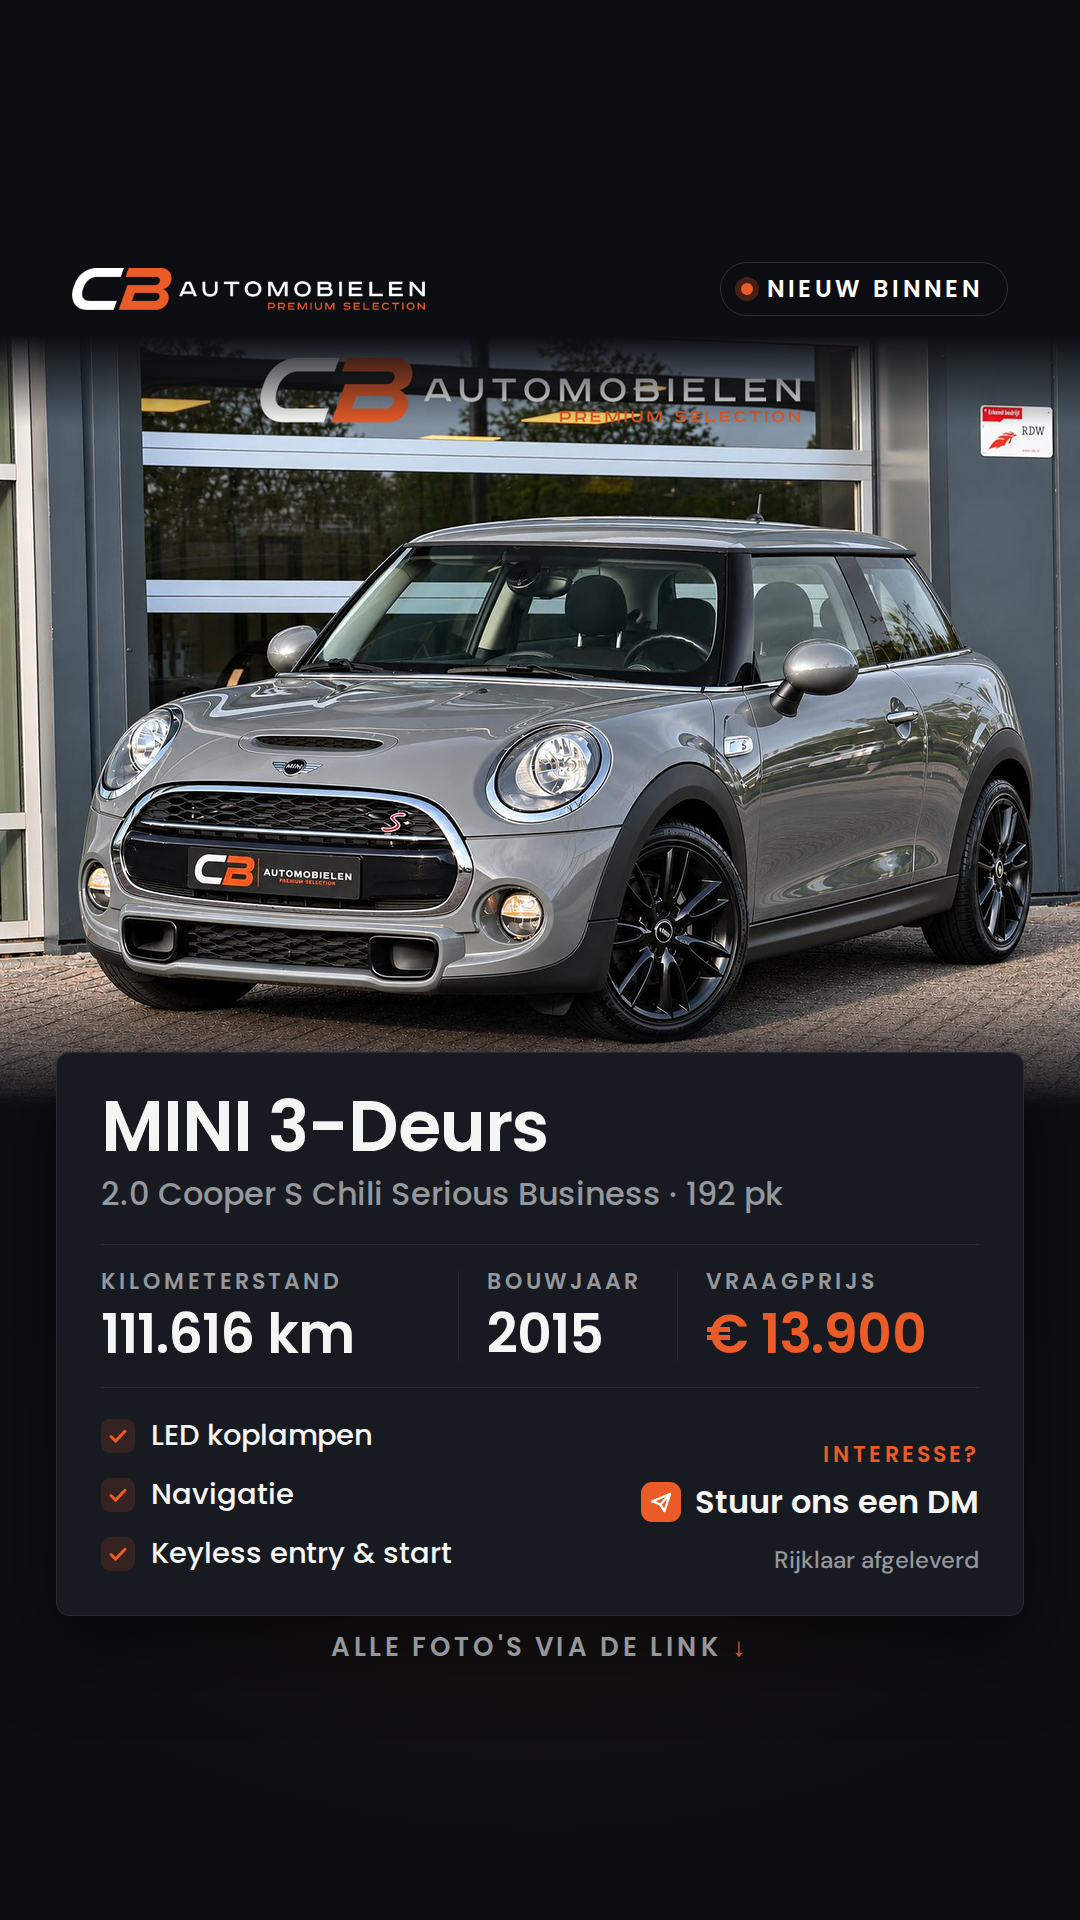
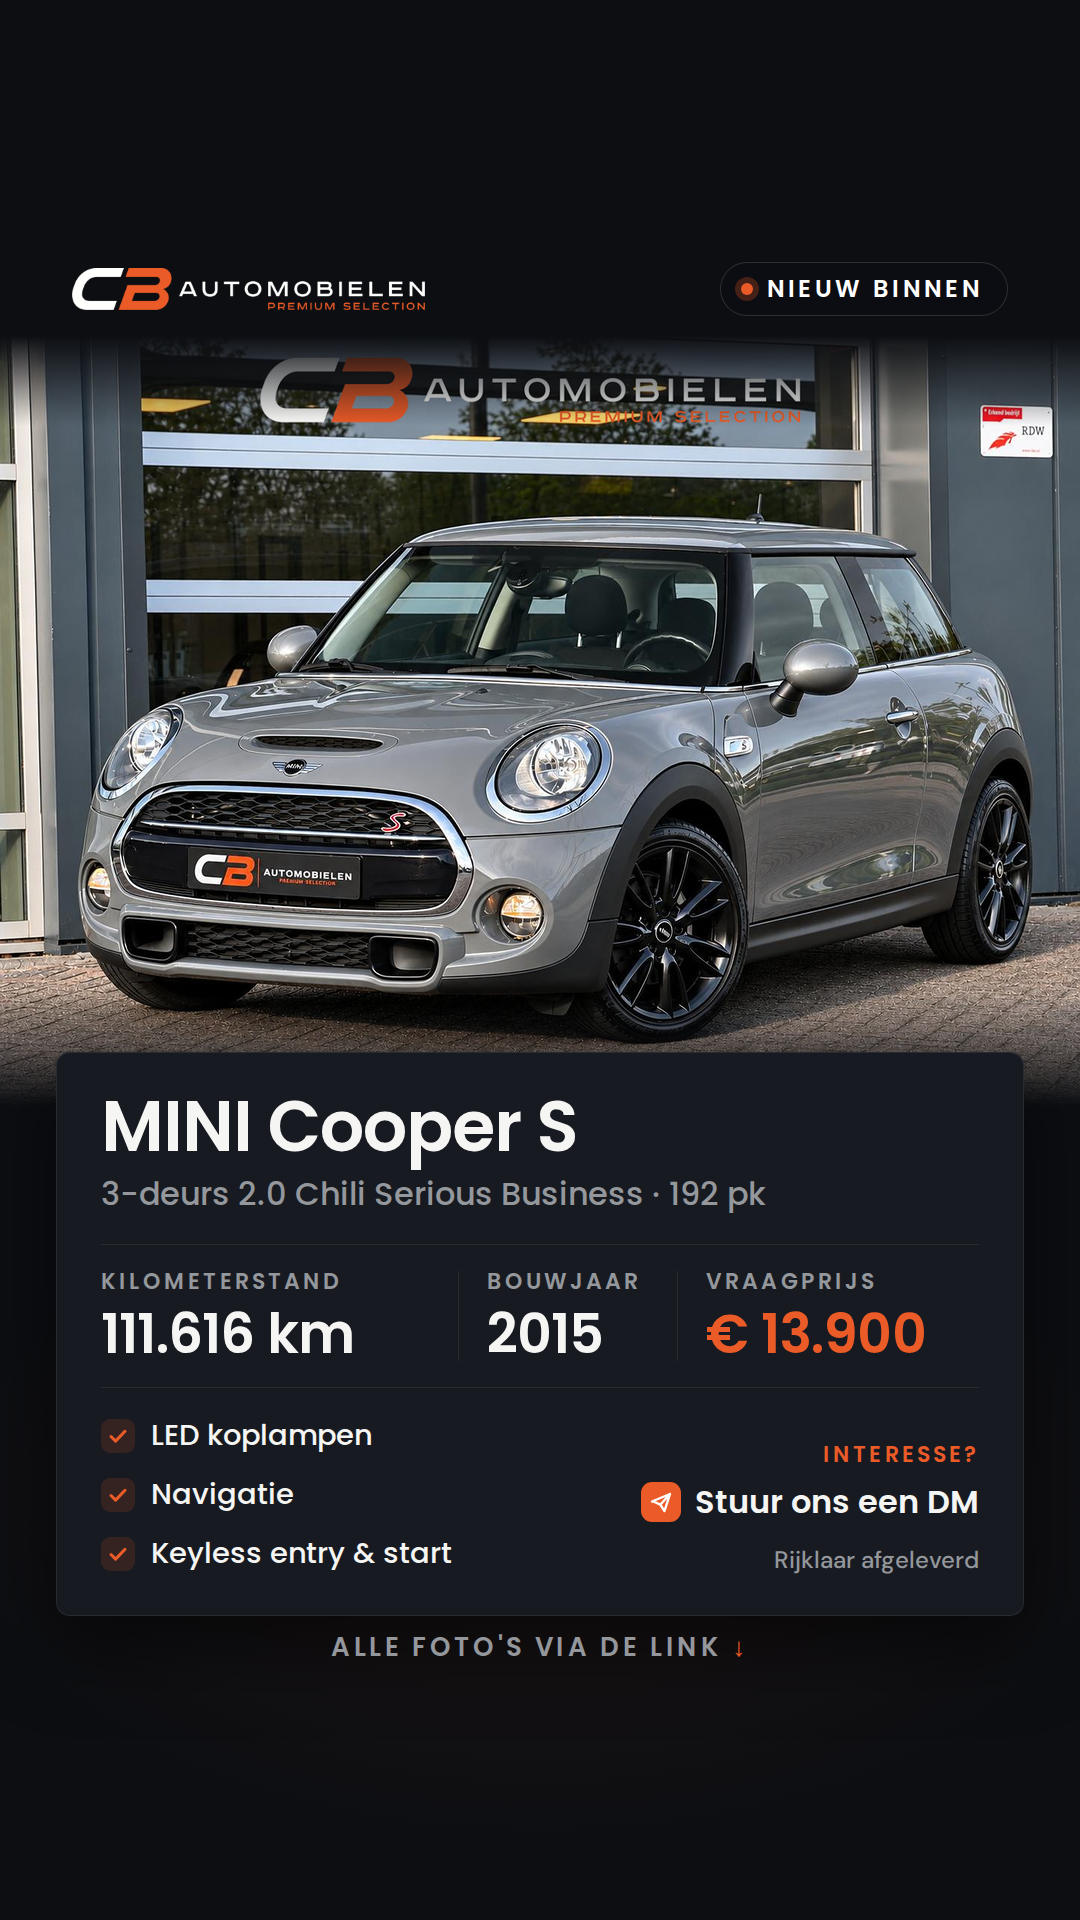
rapport 2026-11-27 15:40

Changed region(s): [[0.1222, 0.5625, 0.7333, 0.6562]]

diff --git a/stories/2026-11-27/README.md b/stories/2026-11-27/README.md
@@ -9,7 +9,7 @@
 **Tekstideeën voor in je verhaal:**
 
 ```
-Net binnen! 🔥 MINI 3-Deurs 2.0 Cooper S Chili Serious Business
+Net binnen! 🔥 MINI Cooper S 3-deurs 2.0 Chili Serious Business
 LED koplampen, navigatie en keyless entry & start.
 2015 · 111.616 km · 192 pk · € 13.900
 Tik op de link voor alle foto's 👆
@@ -17,7 +17,7 @@ Tik op de link voor alle foto's 👆
 
 ```
 Wie wordt de nieuwe eigenaar? 🔑
-MINI 3-Deurs met LED koplampen, navigatie en keyless entry & start.
+MINI Cooper S met LED koplampen, navigatie en keyless entry & start.
 Nu bij CB Automobielen in Sneek · € 13.900
 ```
 
